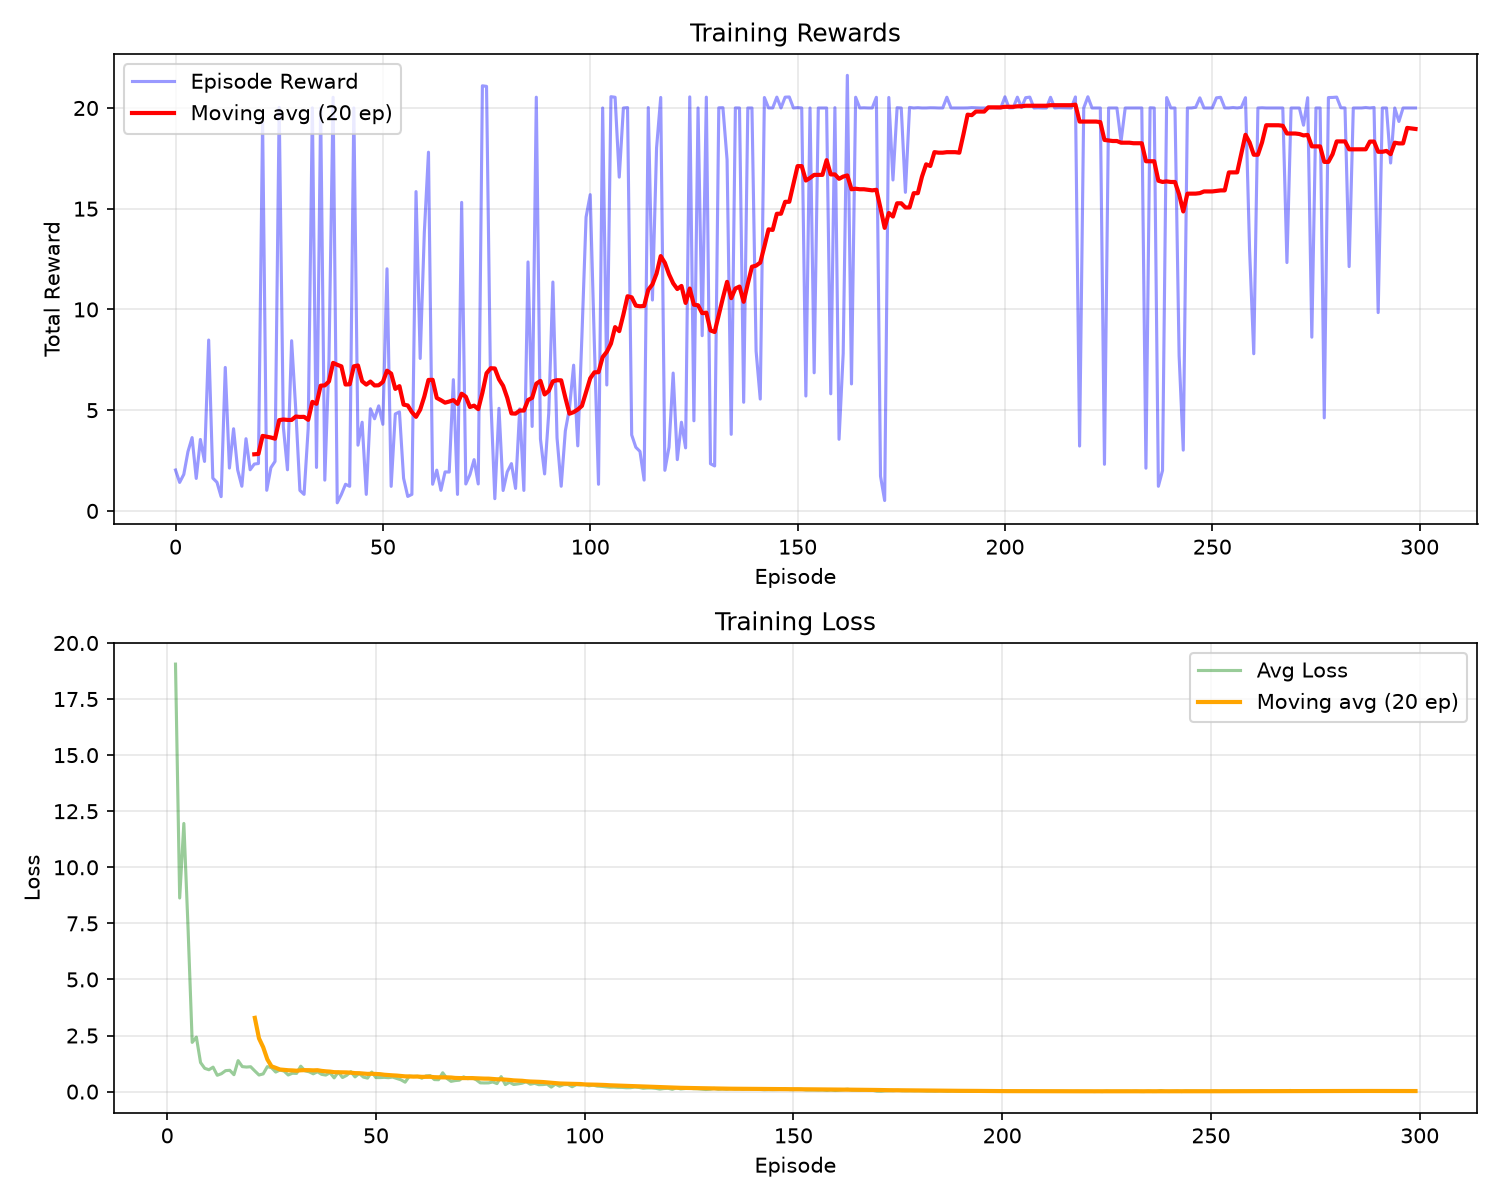
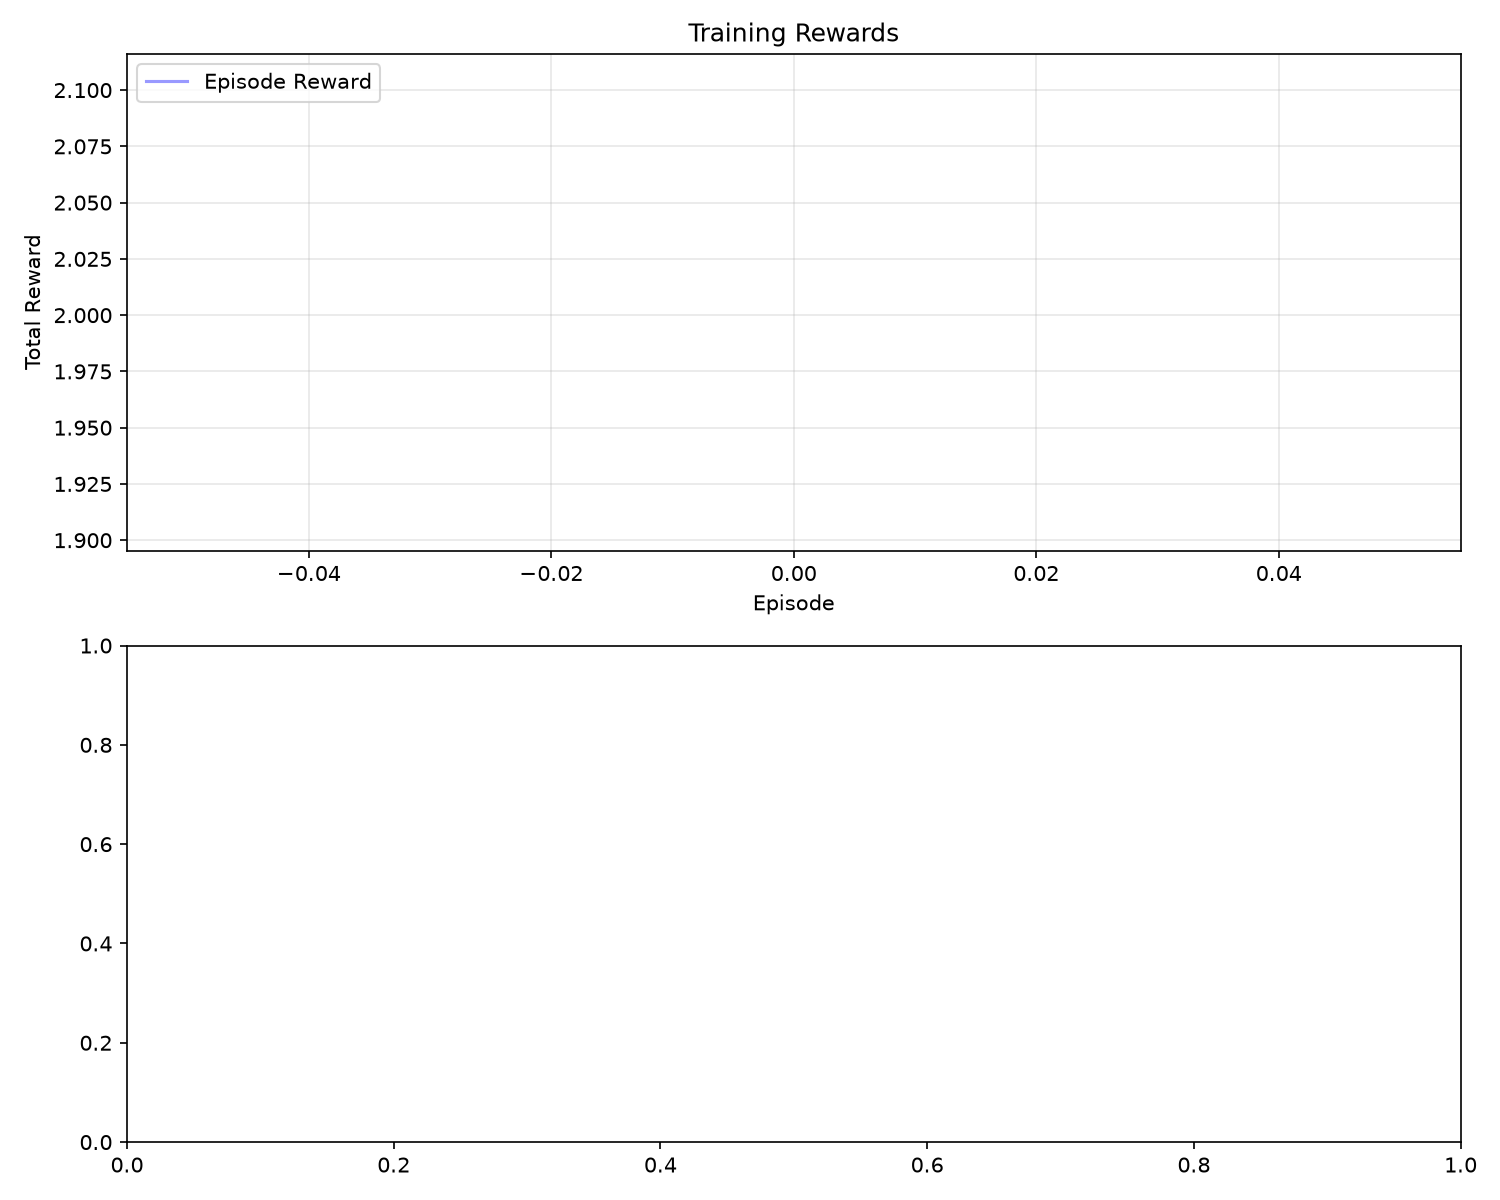
Resolve issue #126: Add --skip-frames (action repeat) support to train.py CLI

Changed region(s): [[0.0, 0.0617, 0.9813, 0.9867], [0.46, 0.0, 0.5827, 0.0308], [0.1227, 0.8633, 0.2147, 0.8942]]

diff --git a/tests/test_scripts.py b/tests/test_scripts.py
@@ -730,6 +730,68 @@ def test_obstacles_config_keys(tmp_path):
 
 
 # ---------------------------------------------------------------------------
+# Skip-frames (action repeat) tests
+# ---------------------------------------------------------------------------
+
+
+def test_train_skip_frames_env_wrapped(tmp_path):
+    main = _make_main()
+    wraps = []
+    real_init = RacingEnv.__init__
+    def tracking_init(self, **kwargs):
+        wraps.append(kwargs)
+        real_init(self, **kwargs)
+    with patch.object(RacingEnv, "__init__", tracking_init), \
+         patch.object(DQNAgent, "act", return_value=0), \
+         patch.object(DQNAgent, "train_step", return_value=0.0), \
+         patch.object(DQNAgent, "save"):
+        main([
+            "--skip-frames", "4",
+            "--episodes", "1", "--max-steps", "1",
+            "--save-dir", str(tmp_path),
+        ])
+    assert len(wraps) >= 1
+
+
+def test_train_skip_frames_default_1(tmp_path):
+    main = _make_main()
+    with patch.object(DQNAgent, "act", return_value=0), \
+         patch.object(DQNAgent, "train_step", return_value=0.0), \
+         patch.object(DQNAgent, "save"):
+        main([
+            "--episodes", "1", "--max-steps", "1",
+            "--save-dir", str(tmp_path),
+        ])
+    # Default skip_frames=1 means no wrapping — env is a RacingEnv, not ActionRepeatEnv
+
+
+def test_train_skip_frames_invalid(tmp_path):
+    main = _make_main()
+    with patch.object(DQNAgent, "act", return_value=0), \
+         patch.object(DQNAgent, "train_step", return_value=0.0), \
+         patch.object(DQNAgent, "save"):
+        with pytest.raises(ValueError, match="--skip-frames must be >= 1"):
+            main([
+                "--skip-frames", "0",
+                "--episodes", "1", "--max-steps", "1",
+                "--save-dir", str(tmp_path),
+            ])
+
+
+def test_train_skip_frames_with_obstacles(tmp_path):
+    main = _make_main()
+    with patch.object(DQNAgent, "act", return_value=0), \
+         patch.object(DQNAgent, "train_step", return_value=0.0), \
+         patch.object(DQNAgent, "save"):
+        main([
+            "--skip-frames", "3",
+            "--num-obstacles", "2", "--obstacle-seed", "7",
+            "--episodes", "1", "--max-steps", "1",
+            "--save-dir", str(tmp_path),
+        ])
+
+
+# ---------------------------------------------------------------------------
 # Grid search tests
 # ---------------------------------------------------------------------------
 

diff --git a/scripts/train.py b/scripts/train.py
@@ -7,6 +7,7 @@ import numpy as np
 
 from numpy_rl_racer.agent import DQNAgent, ACTIONS
 from numpy_rl_racer.env import CircularTrack, Figure8Track, Obstacle, RacingEnv, RectangularTrack
+from numpy_rl_racer.env.wrappers import ActionRepeatEnv
 from numpy_rl_racer.utils.scheduler import ExponentialDecay, StepDecay
 
 
@@ -139,6 +140,8 @@ def main(argv=None):
                         help="Number of obstacles to place on the track (default: 0)")
     parser.add_argument("--obstacle-seed", type=int, default=None,
                         help="Seed for reproducible obstacle placement (default: None)")
+    parser.add_argument("--skip-frames", type=int, default=1,
+                        help="Number of times to repeat each action (default: 1)")
 
     known_args, _ = parser.parse_known_args(argv)
     if known_args.config:
@@ -169,6 +172,12 @@ def main(argv=None):
 
     env = RacingEnv(track=track, randomize_start=args.randomize_start,
                     time_penalty=args.time_penalty, obstacles=obstacles)
+
+    if args.skip_frames > 1:
+        env = ActionRepeatEnv(env, skip_frames=args.skip_frames)
+        print(f"Action repeat enabled: skip_frames={args.skip_frames}")
+    elif args.skip_frames < 1:
+        raise ValueError(f"--skip-frames must be >= 1, got {args.skip_frames}")
 
     print(f"Track type: {args.track}")
     scheduler = None